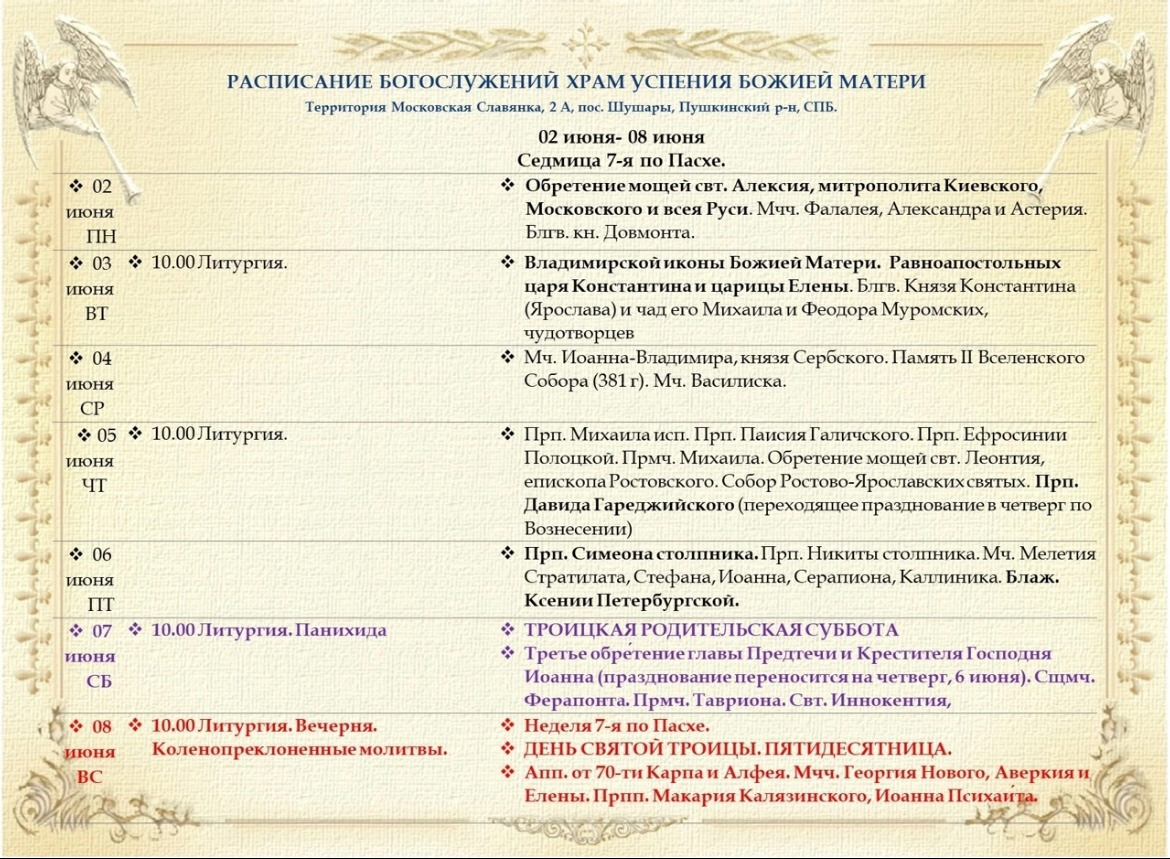
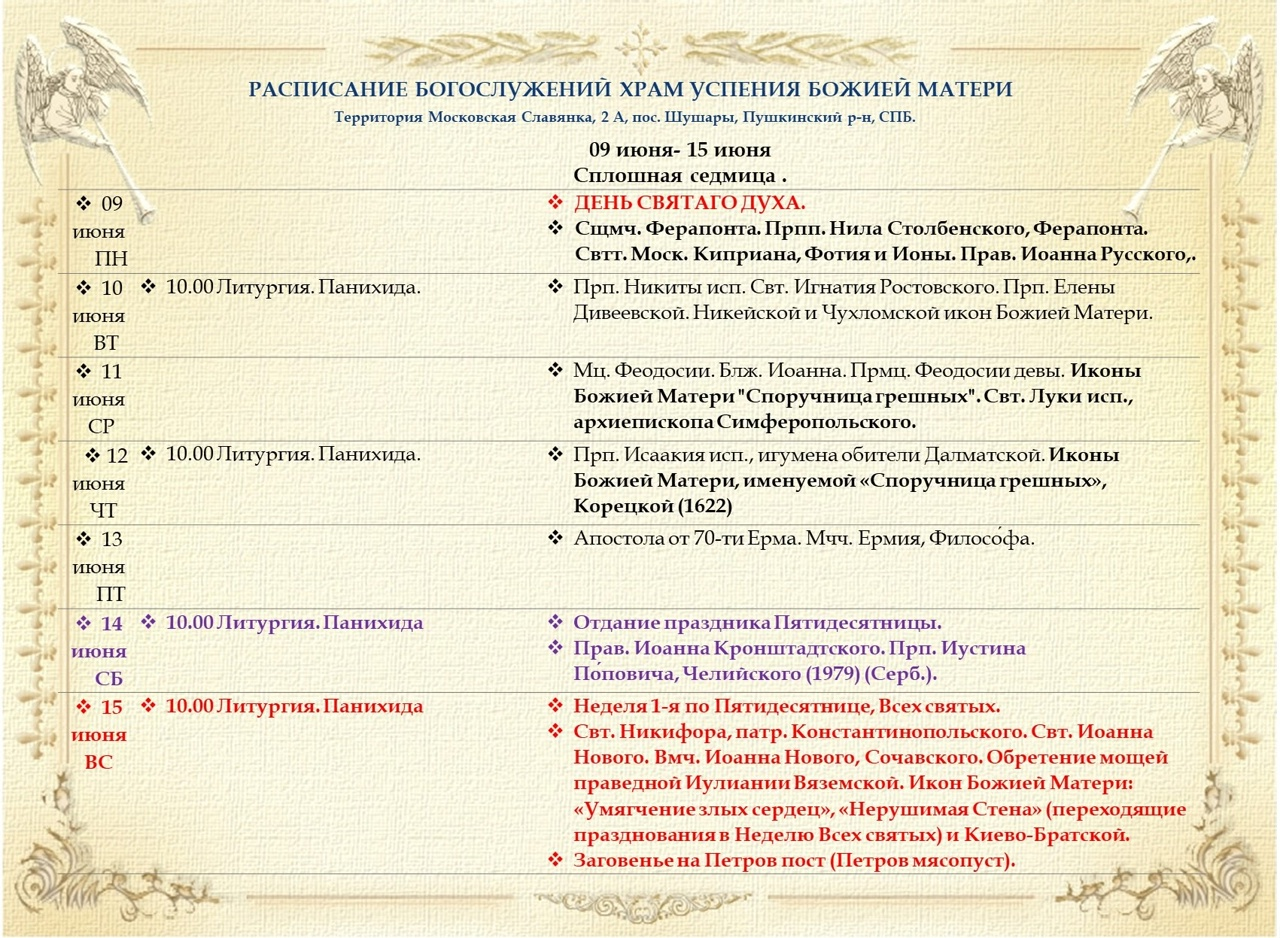
Добавлено новое расписание

diff --git a/index.html b/index.html
@@ -105,7 +105,7 @@
             <p><a href="https://t.me/church_uspenie" target="_blank">Telegram</a></p>
             <p><strong>Объявление</strong></p>
             <div class="announcement">
-                <p>Дорогие братья и сестры! Обращаем ваше внимание на то, что на этой неделе Троицкая Родительская суббота. Поминовение усопших.</p>
+                <p>На этой неделе расписание без изменений</p>
                 <small>Здесь Вы всегда можете прочитать информацию об изменении в расписании и другие объявления</small>
             </div>
             <p class="important">Храни Вас Господь и Матерь Божия! Присоединяйтесь к нам, и мы будем рады видеть Вас в совместном духовном общении!</p>
